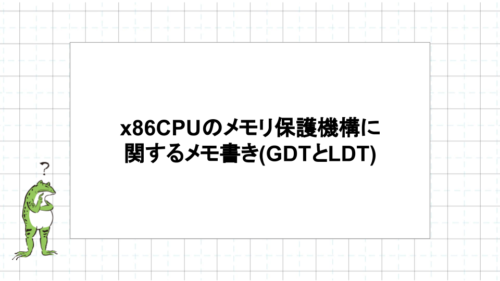
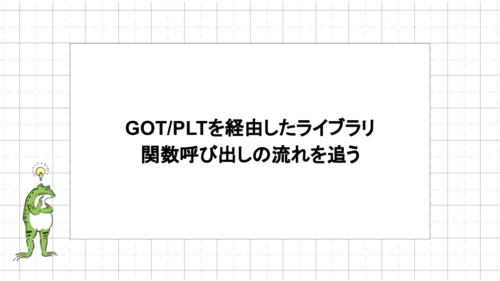
fix post

diff --git a/content/Linux/2021-11-30-linux-trouble-ubuntu-rdp.md b/content/Linux/2021-11-30-linux-trouble-ubuntu-rdp.md
@@ -1,16 +1,17 @@
 ---
-title: 
-date: "2022-02-20"
+title: Ubuntu20.04にXRDP接続した際に起きた問題についてのまとめ
+date: "2021-11-30"
 template: "post"
-draft: true
-slug: ""
-category: ""
+draft: false
+slug: "linux-trouble-ubuntu-rdp"
+category: "Linux"
 tags:
-  - ""
-  - ""
-  - ""
-description: ""
-socialImage: "/media/cards/no-image.png"
+  - "Linux"
+  - "Ubuntu"
+  - "RDP"
+  - "トラブルシューティング"
+description: "この記事では、Ubuntuマシンに対してXRDP接続を行ったときに発生した問題についてまとめています。"
+socialImage: "/media/cards/linux-trouble-ubuntu-rdp.png"
 ---
 
 この記事では、Ubuntuマシンに対してXRDP接続を行ったときに発生した問題についてまとめていきます。
@@ -80,7 +81,7 @@ setxkbmap jp
 
 こちらが設定画面です。
 
-![https://yukituna.com/wp-content/uploads/2021/11/image-15.png](https://yukituna.com/wp-content/uploads/2021/11/image-15.png)
+![https://yukituna.com/wp-content/uploads/2021/11/image-15.png](../../static/media/2021-11-30-linux-trouble-ubuntu-rdp/image-15.png)
 
 これでOSを再起動すると、次回のアクセスからJIS配列が反映されるようになりました。
 

diff --git a/content/Linux/2022-01-09-linux-protectmode.md b/content/Linux/2022-01-09-linux-protectmode.md
@@ -1,16 +1,16 @@
 ---
 title: x86CPUのメモリ保護機構に関するメモ書き(GDTとLDT)
-date: "2022-02-20"
+date: "2022-01-09"
 template: "post"
-draft: true
+draft: false
 slug: "linux-memory-protect-gdt-ldt"
-category: ""
+category: "Linux"
 tags:
-  - ""
-  - ""
-  - ""
-description: ""
-socialImage: "/media/cards/no-image.png"
+  - "Linux"
+  - "OS"
+  - "Kernel"
+description: "UNIXのソースコードを読む中で、起動時のプロテクトモードへの移行プロセスが気になったので調べたことをまとめました。"
+socialImage: "/media/cards/linux-memory-protect-gdt-ldt.png"
 ---
 
 UNIXのソースコードを読む中で、起動時のプロテクトモードへの移行プロセスが気になったので調べたことをまとめました。

diff --git a/content/Linux/2022-01-05-linux-got-plt.md b/content/Linux/2022-01-05-linux-got-plt.md
@@ -1,15 +1,15 @@
 ---
-title: 
-date: "2022-01-05"
+title: GOT/PLTを経由したライブラリ関数呼び出しの流れを追う
+date: "2022-01-06"
 template: "post"
-draft: true
+draft: false
 slug: "linux-got-plt"
-category: ""
+category: "Linux"
 tags:
-  - ""
-  - ""
-  - ""
-description: ""
+  - "Linux"
+  - "OS"
+  - "Kernel"
+description: "GOTとPLTの概要についてまとめるとともに実際に検証してみた内容をまとめています。"
 socialImage: "/media/cards/linux-got-plt.png"
 ---
 
